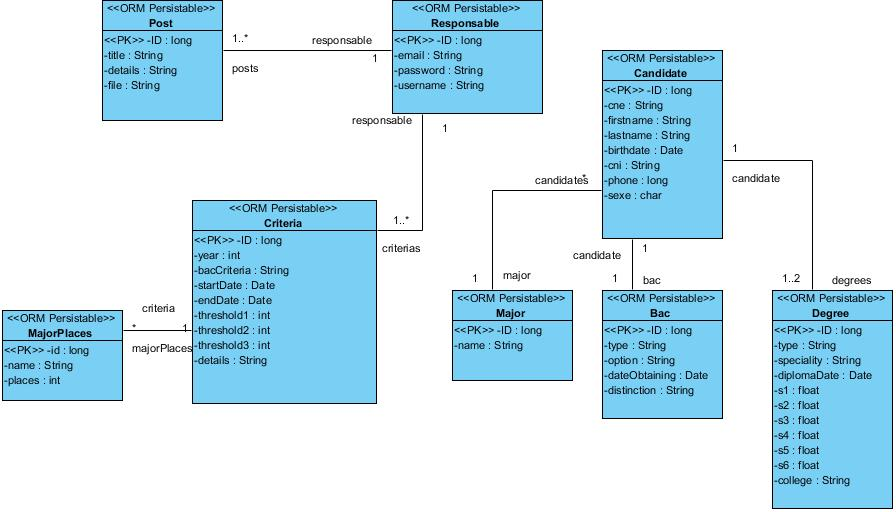
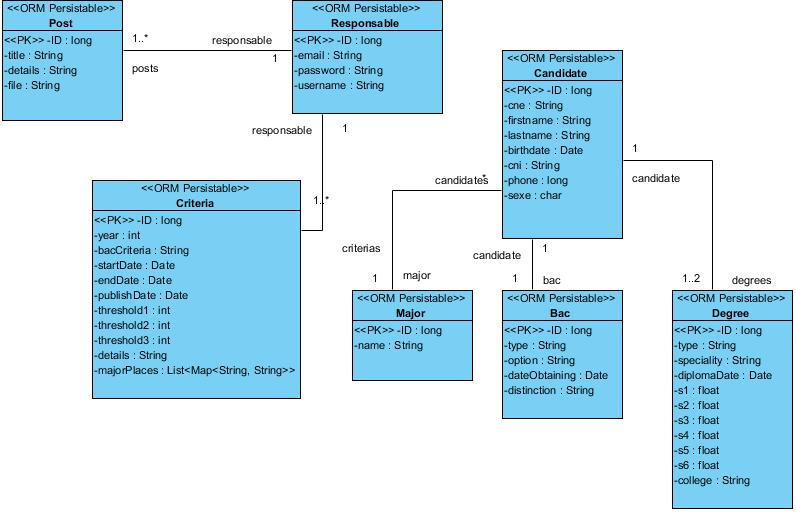
remove the majorPlace class and replace it with and attribute of type List<Map<String,String>>

diff --git a/backend/src/main/java/com/erp/ensab/repository/MajorPlacesRepository.java b/backend/src/main/java/com/erp/ensab/repository/MajorPlacesRepository.java
@@ -1,0 +1,2 @@
+package com.erp.ensab.repository;public interface MajorPlacesRepository {
+}

diff --git a/backend/src/main/java/com/erp/ensab/repository/CriteriaRepository.java b/backend/src/main/java/com/erp/ensab/repository/CriteriaRepository.java
@@ -1,0 +1,2 @@
+package com.erp.ensab.repository;public interface CriteriaRepository {
+}
